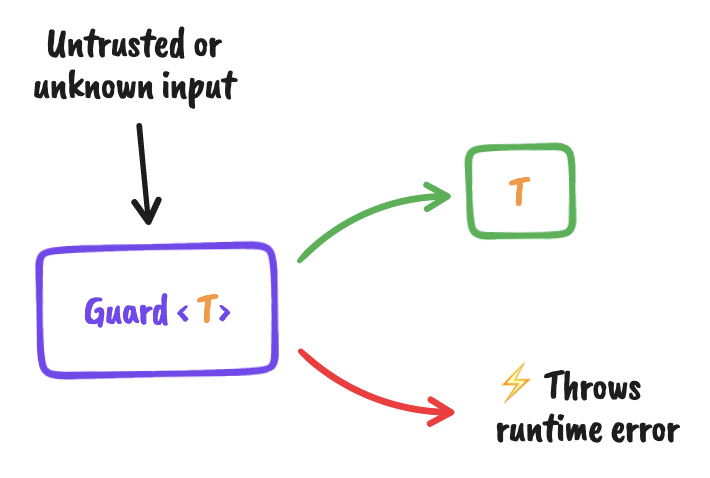
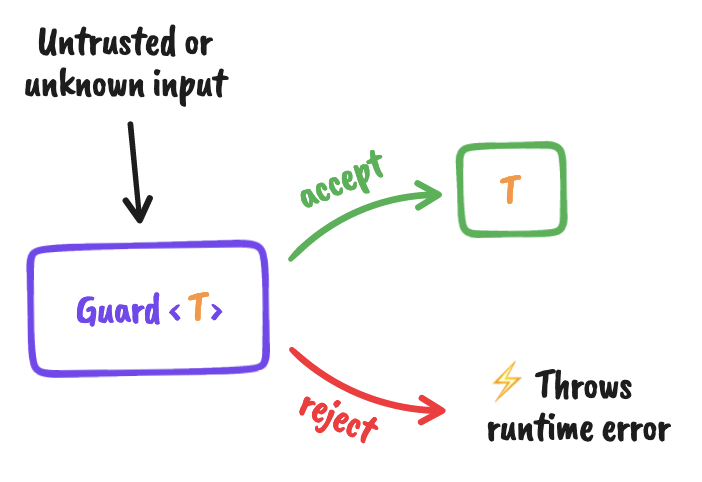
Label arrows

diff --git a/docs/index.md b/docs/index.md
@@ -27,7 +27,7 @@ function that, when called on an untrusted input, will either return an "ok" res
 the decoded value of type `T` as its payload, or an "error" result, with the original
 input object annotated.
 
-<img alt="The concept of a Decoder explained schematically" src="./assets/schematic-decoders.png" style="max-width: min(416px, 100%)" />
+<img alt="The concept of a Decoder explained schematically" src="./assets/schematic-decoders.png" style="max-width: min(414px, 100%)" />
 
 A decoder can either _accept_ or _reject_ the given untrusted input. Whether it accepts or
 rejects depends on the decoder's implementation. Every decoder has a type, for example
@@ -42,7 +42,7 @@ return the "ok" or "error" result intermediate object.
 
 The second important concept is a Guard. A `Guard<T>` is like the decoder that it wraps:
 
-<img alt="The concept of a Guard explained schematically" src="./assets/schematic-guards.png" style="max-width: min(355px, 100%)" />
+<img alt="The concept of a Guard explained schematically" src="./assets/schematic-guards.png" style="max-width: min(351px, 100%)" />
 
 When called on an untrusted input, it will either directly return the "ok" value, or throw
 an error. This allows you to not have to deal with the intermediate "ok" and "err" results
